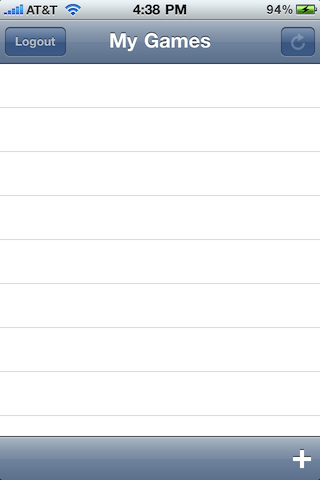
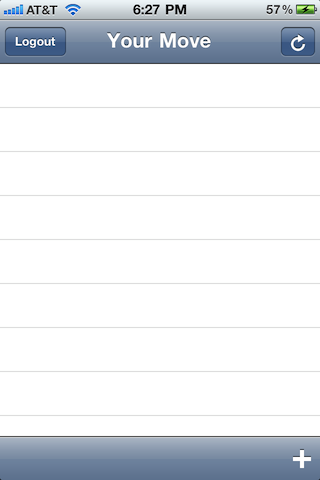
Changed 'My Games' to 'Your Move'
This should reduce the amount of confusion people have had with that screen not showing all the games they are expecting to see.

diff --git a/Classes/Controllers/CurrentGamesController.mm b/Classes/Controllers/CurrentGamesController.mm
@@ -32,7 +32,7 @@
 
 
 - (void)viewDidLoad {
-	self.title = @"My Games";
+	self.title = @"Your Move";
 	self.navigationItem.leftBarButtonItem = self.logoutButton;
 	self.navigationItem.rightBarButtonItem = self.refreshButton;
 	self.dgs = [[[DGS alloc] init] autorelease];
